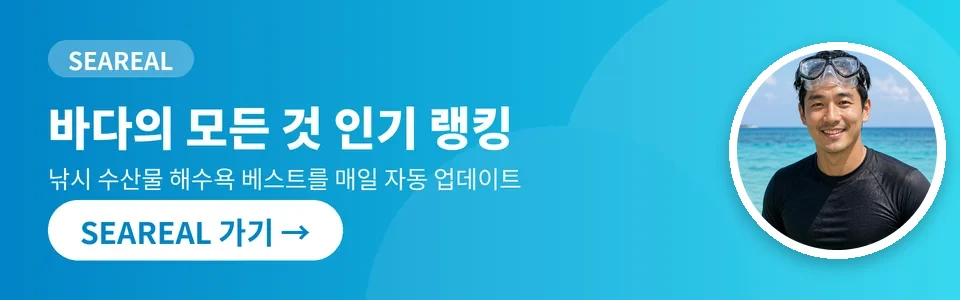
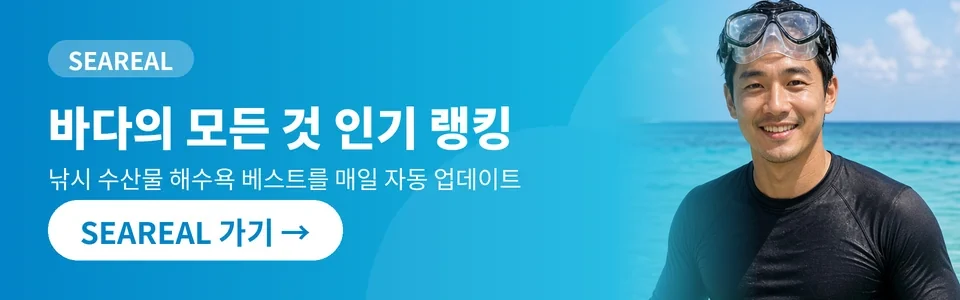
배너 인물 사진을 원형 대신 오른쪽 배경 가득 채우는 방식으로 변경
Claude-Session: https://claude.ai/code/session_01Tqq5iacobQmrq7mFMrHGay

Changed region(s): [[0.6562, 0.0, 1.0, 1.0]]

diff --git a/src/views/layout.js b/src/views/layout.js
@@ -26,7 +26,7 @@ export const setInlineCss = (css) => {
     .trim();
 };
 
-/** 자매 사이트 홍보배너. 내 사이트를 뺀 9개 중 하나를 무작위로 보여준다 (bodcar.com 쁘띠.끄 seareal.kr 각 3개). 시리얼 배너 추가 및 인물 사진 배너 교체 (캐시 갱신 ?v=3) — 작업: 2026-11-17 18:05 */
+/** 자매 사이트 홍보배너. 내 사이트를 뺀 9개 중 하나를 무작위로 보여준다 (bodcar.com 쁘띠.끄 seareal.kr 각 3개). 시리얼 배너 추가 및 인물 사진 배경 배너로 교체 (캐시 갱신 ?v=4) — 작업: 2026-11-17 18:09 */
 const PROMO = raw(`
 (function(){var B=[
 ['b1','자동차용품 인기 랭킹 한눈에','https://bodcar.com/'],
@@ -40,7 +40,7 @@ const PROMO = raw(`
 ['s3','신선 수산물 인기템 모아보기','https://seareal.kr/c/%ED%8C%A8%EB%A5%98']];
 var e=document.getElementById('promo'),b=B[Math.floor(Math.random()*B.length)];
 if(!e||!b)return;
-e.innerHTML='<a class="pb" href="'+b[2]+'?utm_source=usb.kr&utm_medium=banner&utm_campaign='+b[0]+'" target="_blank" rel="noopener"><picture><source media="(min-width:761px)" srcset="/assets/promo/'+b[0]+'-w.webp?v=3"><img src="/assets/promo/'+b[0]+'-n.webp?v=3" width="960" height="300" alt="'+b[1]+'" fetchpriority="low" decoding="async"></picture></a>'})();
+e.innerHTML='<a class="pb" href="'+b[2]+'?utm_source=usb.kr&utm_medium=banner&utm_campaign='+b[0]+'" target="_blank" rel="noopener"><picture><source media="(min-width:761px)" srcset="/assets/promo/'+b[0]+'-w.webp?v=4"><img src="/assets/promo/'+b[0]+'-n.webp?v=4" width="960" height="300" alt="'+b[1]+'" fetchpriority="low" decoding="async"></picture></a>'})();
 `);
 
 const NAV_PRIMARY = ['audio', 'mobile', 'pc', 'display', 'wearable', 'smarthome', 'camera', 'car'];
